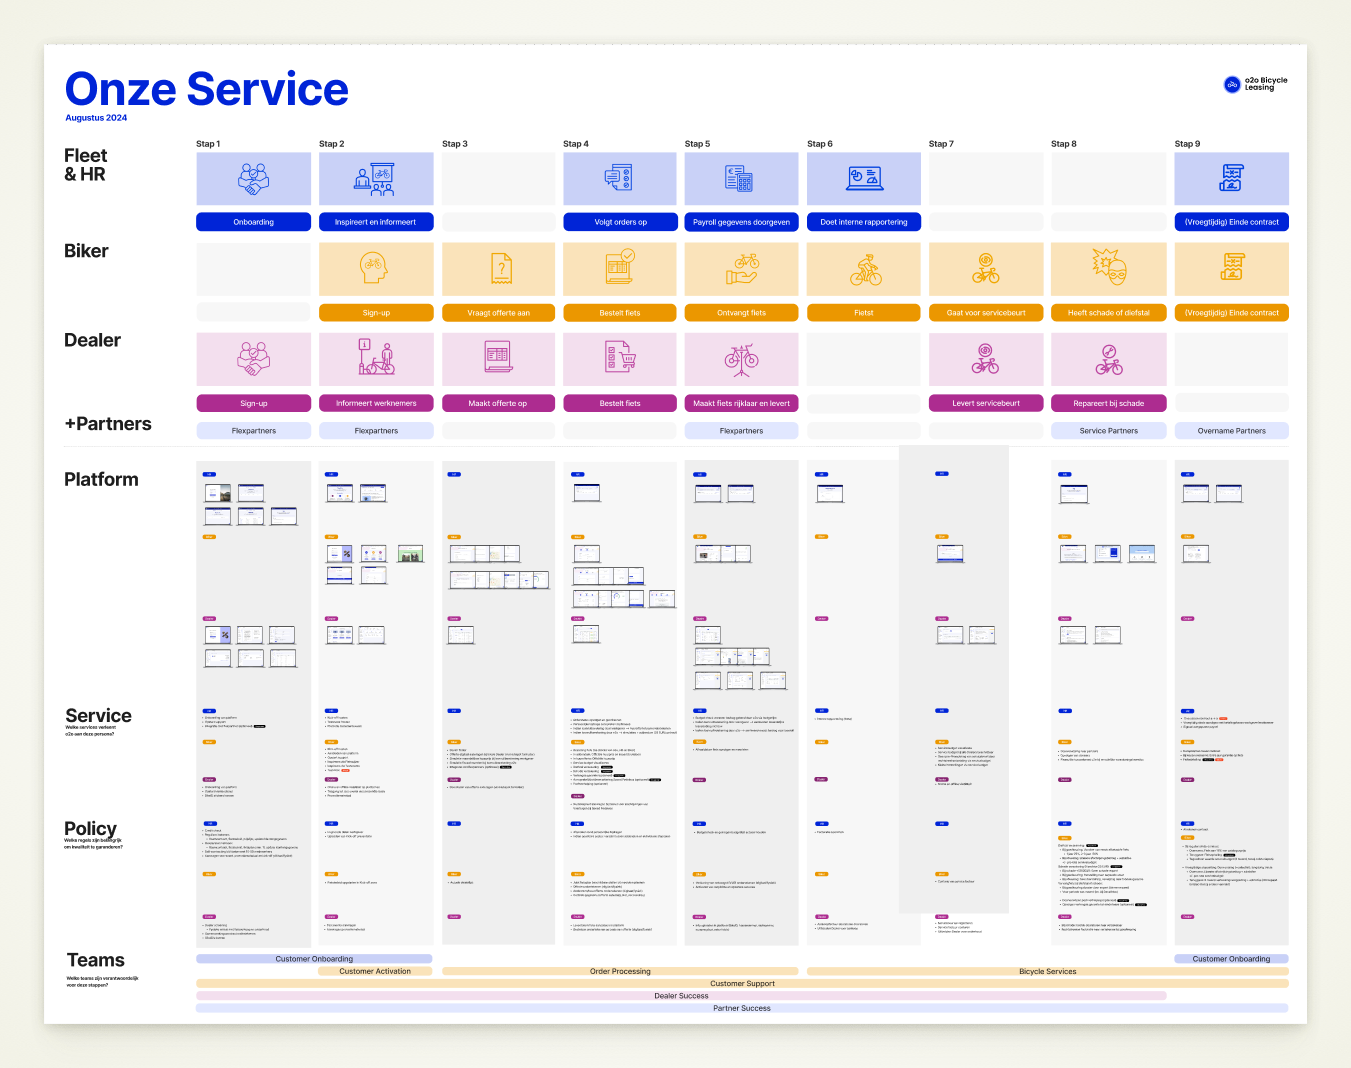
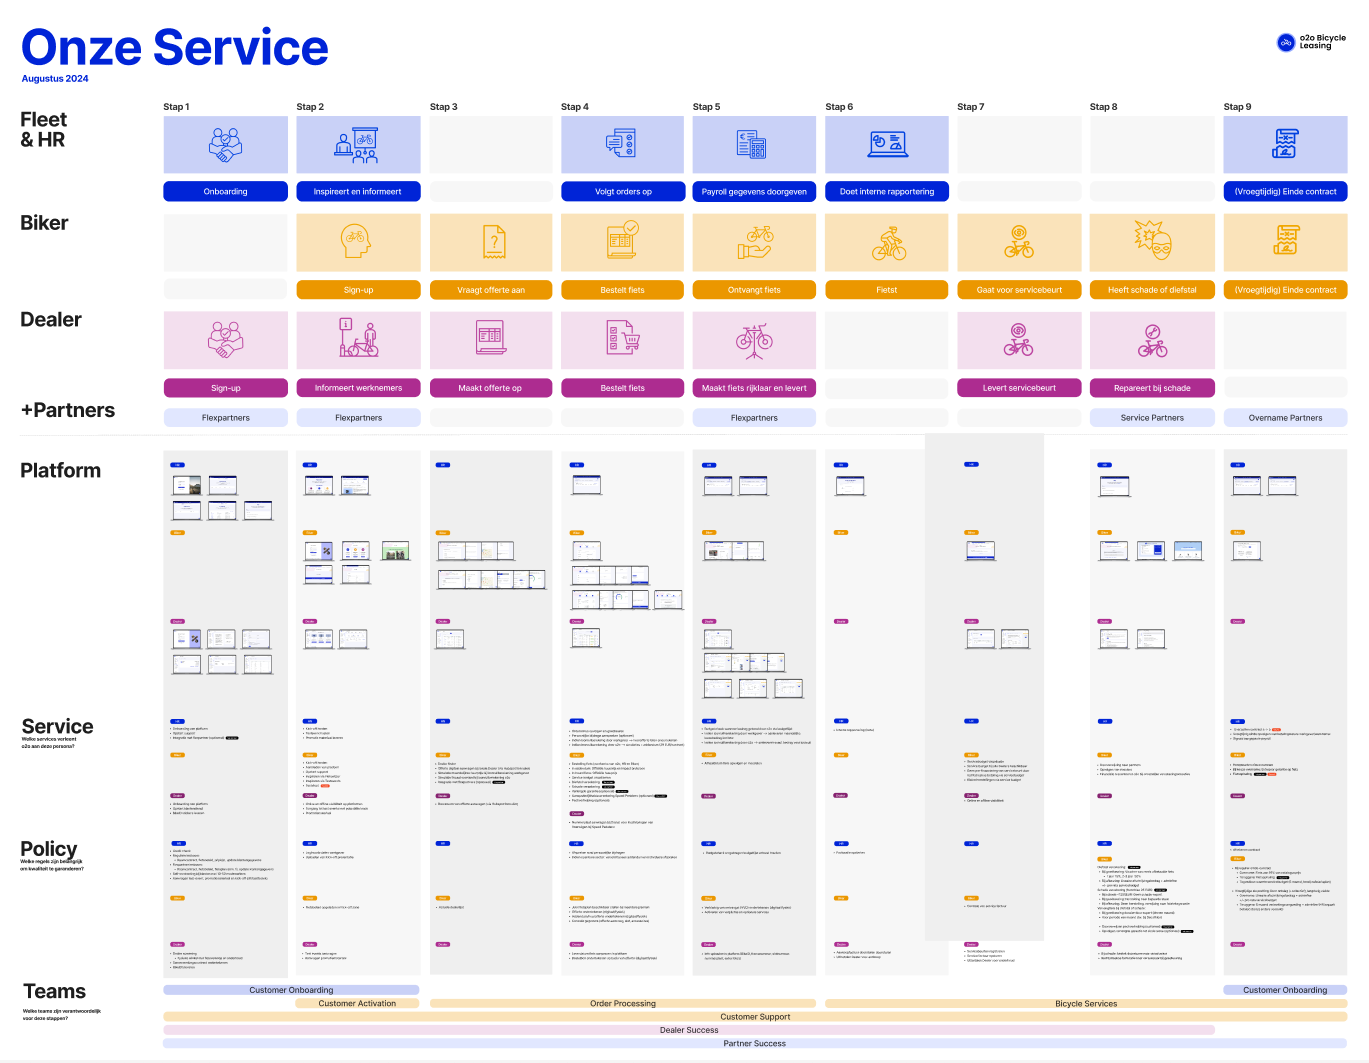
Update blueprint + vision type images (tight crop); restore frame flush to image

diff --git a/src/app/proposals/Borro1_26/page.tsx b/src/app/proposals/Borro1_26/page.tsx
@@ -560,12 +560,14 @@ function OutputCard({ output, accent }: { output: Output; accent: string }) {
     <figure className="m-0">
       <figcaption className="text-[12px] italic text-[#6B6B63] mb-2">{output.caption}</figcaption>
       {showImg ? (
-        <img
-          src={output.img}
-          alt={output.caption}
-          className="w-full h-auto"
-          onError={() => setError(true)}
-        />
+        <div className="rounded-2xl overflow-hidden border border-[#EAE7DE] bg-white shadow-[0_2px_8px_rgba(0,0,0,0.04),0_8px_28px_rgba(0,0,0,0.06)]">
+          <img
+            src={output.img}
+            alt={output.caption}
+            className="w-full h-auto block"
+            onError={() => setError(true)}
+          />
+        </div>
       ) : (
         <div
           className="rounded-2xl border border-dashed flex items-center justify-center min-h-[160px] bg-white"
